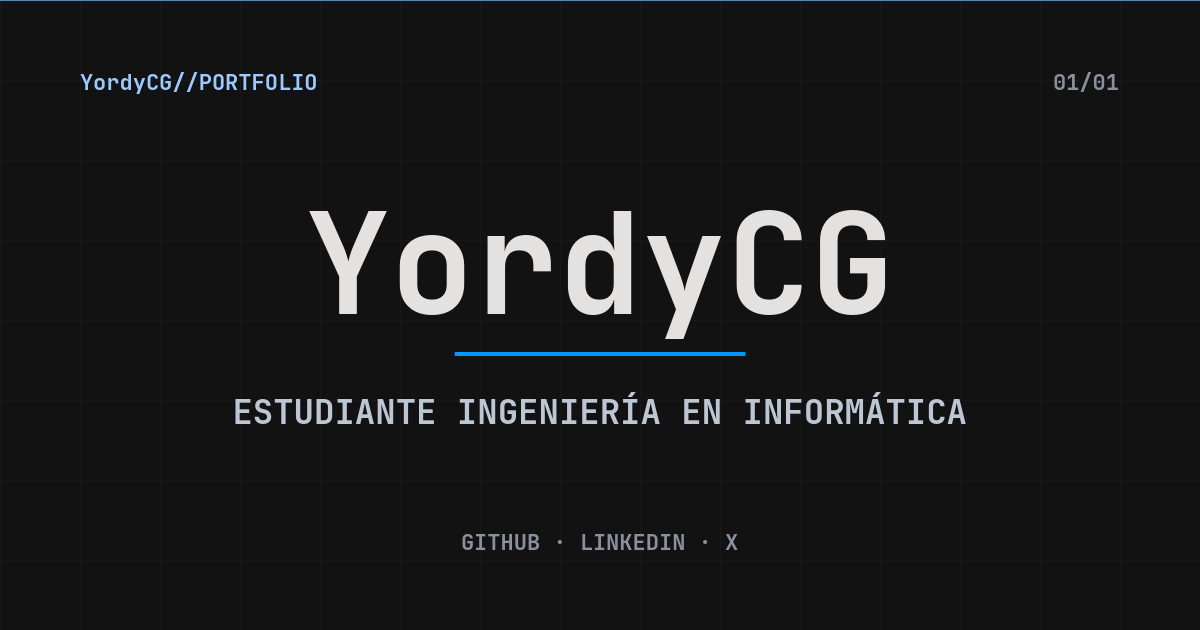
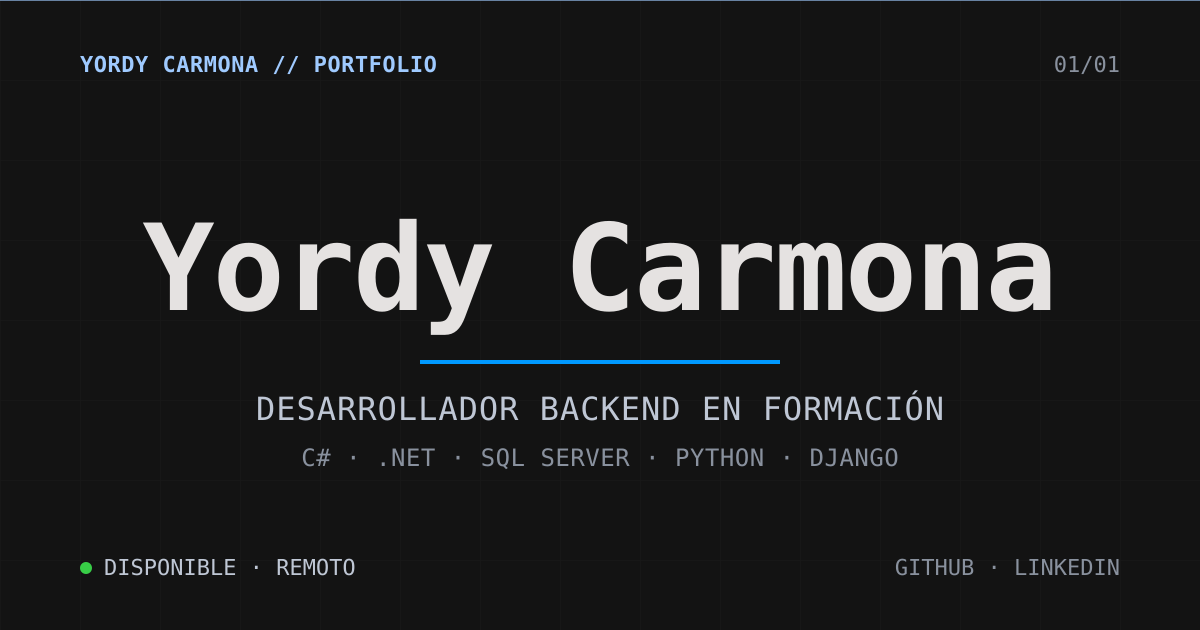
feat(seo): refresh the OG image and social metadata
Replace the old ffmpeg generator with an SVG rendered by sharp-cli, update the image to the v1.1 identity, add image dimensions and alt text, theme-color and the favicon.ico link, and remove the false Demo links while aligning the first project title.

diff --git a/src/index.html b/src/index.html
@@ -10,6 +10,7 @@
     />
     <link rel="canonical" href="https://yordycg.github.io/yordycg-portfolio/" />
     <meta property="og:type" content="website" />
+    <meta property="og:site_name" content="Yordy Carmona" />
     <meta
       property="og:title"
       content="Yordy Carmona — Desarrollador Backend en Formación"
@@ -26,6 +27,13 @@
       property="og:image"
       content="https://yordycg.github.io/yordycg-portfolio/assets/img/og-image.png"
     />
+    <meta property="og:image:type" content="image/png" />
+    <meta property="og:image:width" content="1200" />
+    <meta property="og:image:height" content="630" />
+    <meta
+      property="og:image:alt"
+      content="Yordy Carmona — Desarrollador Backend en Formación"
+    />
     <meta property="og:locale" content="es_CL" />
     <meta name="twitter:card" content="summary_large_image" />
     <meta
@@ -40,8 +48,14 @@
       name="twitter:image"
       content="https://yordycg.github.io/yordycg-portfolio/assets/img/og-image.png"
     />
+    <meta
+      name="twitter:image:alt"
+      content="Yordy Carmona — Desarrollador Backend en Formación"
+    />
+    <meta name="theme-color" content="#131313" />
     <link rel="stylesheet" href="css/main.css" />
     <link rel="icon" href="assets/favicon/favicon.svg" type="image/svg+xml" />
+    <link rel="icon" href="assets/favicon/favicon.ico" sizes="any" />
     <link
       rel="icon"
       href="assets/favicon/favicon-32x32.png"
@@ -180,19 +194,11 @@
                     aria-label="Ver código en GitHub"
                     >Código</a
                   >
-                  <a
-                    href="https://github.com/yordycg/sistemaVeterinario#readme"
-                    target="_blank"
-                    rel="noopener"
-                    class="project__card-btn project__card-btn--secondary"
-                    aria-label="Ver demo"
-                    >Demo</a
-                  >
                 </div>
               </div>
             </div>
             <div class="project__card-info">
-              <h3 class="project__card-title">Gestión de Veterinario</h3>
+              <h3 class="project__card-title">Sistema Veterinario</h3>
               <div class="project__card-tech">
                 <span class="project__card-tag">C#</span>
                 <span class="project__card-tag">Entity Framework Core</span>
@@ -226,14 +232,6 @@
                     class="project__card-btn project__card-btn--primary"
                     aria-label="Ver código en GitHub"
                     >Código</a
-                  >
-                  <a
-                    href="https://github.com/yordycg/arriendo-canchas#readme"
-                    target="_blank"
-                    rel="noopener"
-                    class="project__card-btn project__card-btn--secondary"
-                    aria-label="Ver demo"
-                    >Demo</a
                   >
                 </div>
               </div>

diff --git a/README.md b/README.md
@@ -43,3 +43,7 @@ Personal portfolio project built with a "Vanilla Web" stack.
 
 - Check for issues: `just lint`
 - Auto-fix issues: `just format`
+
+### Assets
+
+- Regenerate the Open Graph image: `just og`
